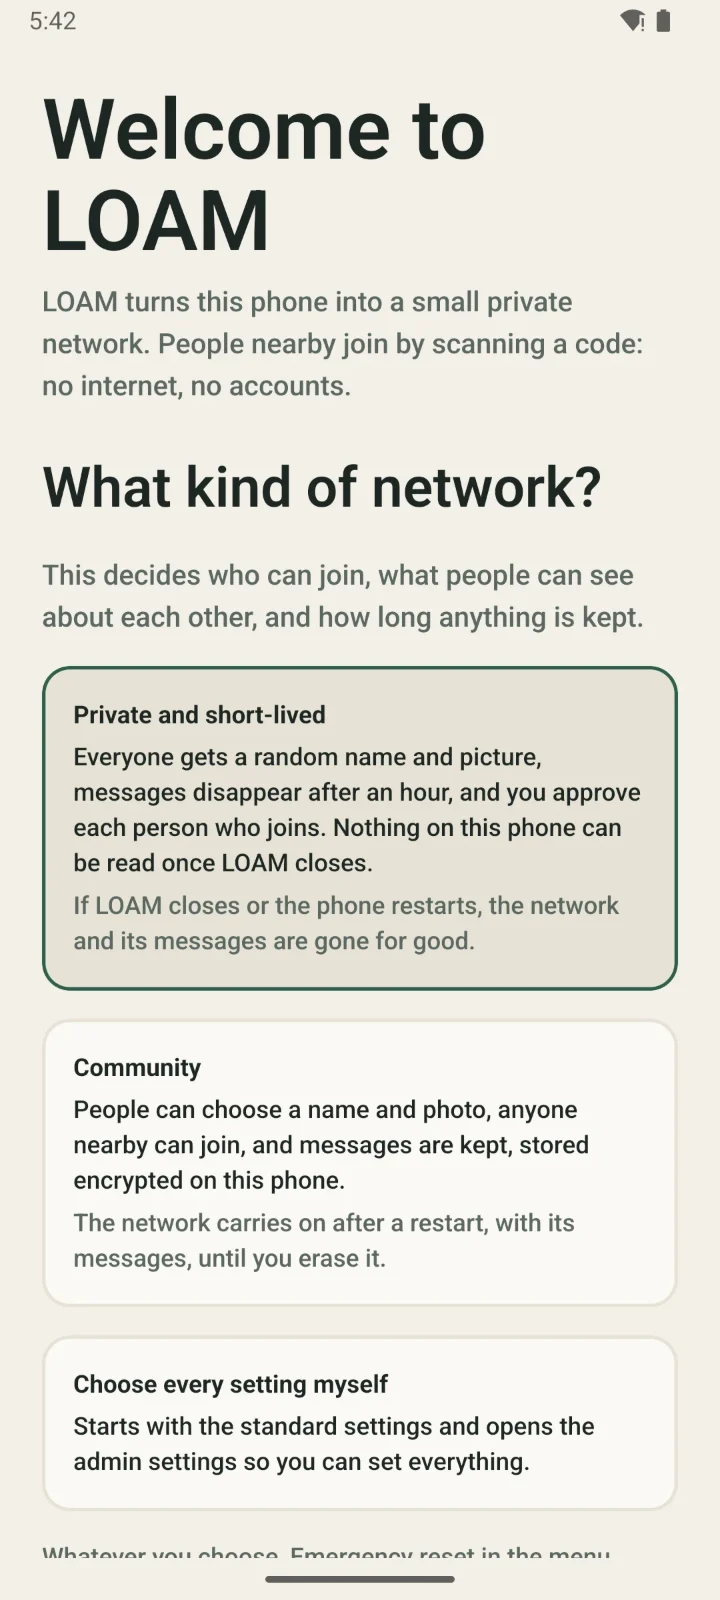
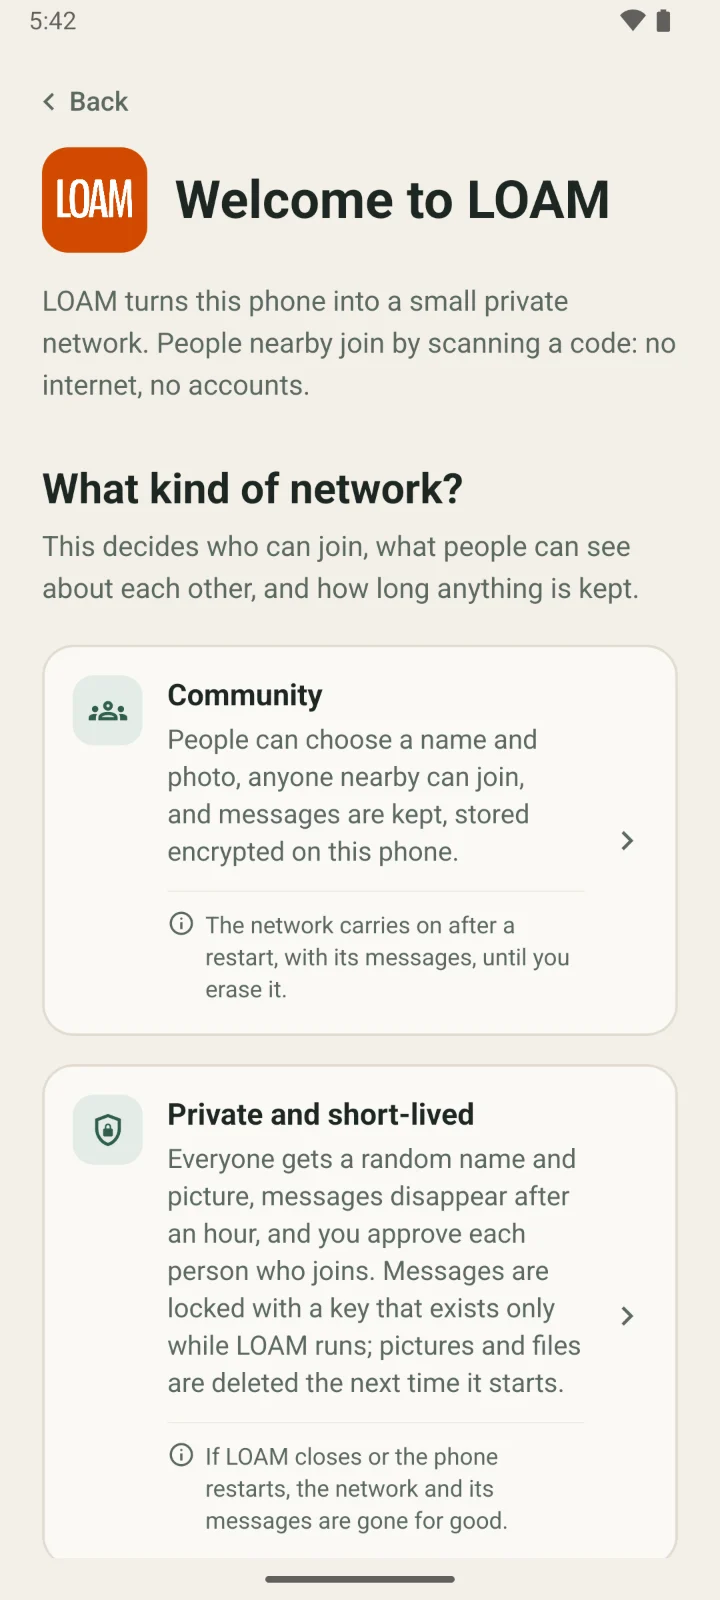
Website: retaken screenshots, and why there's no iPhone app
- Android shots retaken from the current app: the redesigned setup screens
  (language, kind of network, connection) and the Emergency reset screen,
  light and dark. Web client shots regenerated from the current client.
- New "What about iPhone?" section (and nav link, and a "Why not iPhone?"
  link under the Android download): iPhones join from Safari with nothing
  to install, but there won't be an iPhone app. iOS can't run a network
  (no hotspot, apps paused in the background), Apple approves every app
  and removes apps at governments' request, and LOAM has to be installable
  without anyone's permission.
- The Emergency reset line no longer says it's in the menu (it's in the
  menu only on private networks now).

Claude-Session: https://claude.ai/code/session_017Bh6kfLEYorhYvTDgJA79n

diff --git a/apps/site/index.html b/apps/site/index.html
@@ -50,6 +50,7 @@
           <li><a href="#how">How it works</a></li>
           <li><a href="#start">Get started</a></li>
           <li><a href="#features">Features</a></li>
+          <li><a href="#iphone">iPhone</a></li>
           <li><a href="#privacy">Privacy</a></li>
           <li>
             <a class="nav-github" href="https://github.com/JosephMaynard/loam" rel="noreferrer">
@@ -226,7 +227,7 @@
                 <a class="btn btn-primary" href="https://github.com/JosephMaynard/loam/releases/latest/download/loam-host.apk">Download for Android</a>
                 <a class="text-link" href="https://github.com/JosephMaynard/loam/releases/latest" rel="noreferrer">All releases</a>
               </div>
-              <p class="fineprint">Android 7 or newer. Hosting a hotspot needs Android 8 or newer.</p>
+              <p class="fineprint">Android 7 or newer. Hosting a hotspot needs Android 8 or newer. <a href="#iphone">Why not iPhone?</a></p>
             </article>
 
             <article class="start-card reveal" aria-labelledby="start-cli">
@@ -399,6 +400,45 @@
         </div>
       </section>
 
+      <!-- iPhone -->
+      <section id="iphone" class="section section-tint" aria-labelledby="iphone-title">
+        <div class="wrap iphone-grid">
+          <header class="iphone-head reveal">
+            <p class="eyebrow">What about iPhone?</p>
+            <h2 id="iphone-title">iPhones can join. They can't host.</h2>
+            <p class="section-lede">
+              Anyone with an iPhone can join a LOAM network: scan the code and it opens in Safari, with nothing
+              to install. But there won't be a LOAM app for iPhone, and that's on purpose.
+            </p>
+          </header>
+          <ol class="reasons">
+            <li class="reason reveal">
+              <h3>iOS won't let an app run a network</h3>
+              <p>
+                An iPhone app can't start a Wi-Fi hotspot, and iOS pauses apps soon after you switch away from
+                them. A network hosted on an iPhone would stop the moment its screen locked.
+              </p>
+            </li>
+            <li class="reason reveal">
+              <h3>Apple decides what an iPhone can install</h3>
+              <p>
+                Every iPhone app needs Apple's approval, even from the alternative app stores now allowed in the
+                EU. Apple removes apps when governments ask it to, and has done so with messaging apps before.
+                An app it removed would simply stop being installable.
+              </p>
+            </li>
+            <li class="reason reveal">
+              <h3>LOAM has to be there when it's needed</h3>
+              <p>
+                A tool for emergencies and disrupted networks can't depend on one company's permission. On
+                Android, LOAM is a file: download it, pass it from phone to phone, and install it with no store
+                in between.
+              </p>
+            </li>
+          </ol>
+        </div>
+      </section>
+
       <!-- Privacy & safety -->
       <section id="privacy" class="section section-deep" aria-labelledby="privacy-title">
         <div class="wrap privacy-grid">
@@ -429,7 +469,7 @@
             </li>
             <li>
               <strong>Emergency reset</strong>
-              <span>Press and hold in the menu to erase the whole network at once, on the host and on every phone connected to it.</span>
+              <span>Press and hold to erase the whole network at once, on the host and on every phone connected to it. LOAM then closes, ready to start again.</span>
             </li>
             <li>
               <strong>No tracking in the app</strong>

diff --git a/apps/site/src/styles.css b/apps/site/src/styles.css
@@ -1191,6 +1191,86 @@ code {
   font-size: 15.5px;
 }
 
+/* ---- iPhone ---------------------------------------------------------------- */
+
+.iphone-grid {
+  display: grid;
+  grid-template-columns: minmax(0, 1fr);
+  gap: clamp(32px, 5vw, 64px);
+  align-items: start;
+}
+
+@media (min-width: 960px) {
+  .iphone-grid {
+    grid-template-columns: minmax(0, 5fr) minmax(0, 6fr);
+  }
+
+  .iphone-head {
+    position: sticky;
+    top: 112px;
+  }
+}
+
+.iphone-head .section-lede {
+  margin-top: 18px;
+}
+
+.reasons {
+  display: grid;
+  gap: 16px;
+  margin: 0;
+  padding: 0;
+  list-style: none;
+  counter-reset: reason;
+}
+
+.reason {
+  position: relative;
+  padding: 26px 26px 26px 84px;
+  border-radius: var(--radius);
+  background: var(--surface);
+  border: 1px solid var(--line);
+  counter-increment: reason;
+}
+
+.reason::before {
+  content: counter(reason);
+  position: absolute;
+  top: 24px;
+  left: 26px;
+  display: grid;
+  place-items: center;
+  width: 38px;
+  height: 38px;
+  border-radius: 12px;
+  background: var(--moss-soft);
+  color: var(--moss);
+  font-family: var(--font-display);
+  font-size: 19px;
+  font-weight: 700;
+}
+
+.reason h3 {
+  font-size: 21px;
+  margin-bottom: 8px;
+}
+
+.reason p {
+  color: var(--ink-2);
+  font-size: 15.5px;
+}
+
+@media (max-width: 520px) {
+  .reason {
+    padding: 22px;
+  }
+
+  .reason::before {
+    position: static;
+    margin-bottom: 14px;
+  }
+}
+
 /* ---- Privacy --------------------------------------------------------------- */
 
 .privacy-grid {

diff --git a/apps/site/scripts/android-shots.md b/apps/site/scripts/android-shots.md
@@ -50,8 +50,15 @@ $ADB shell input swipe 540 2233 540 2233 2600                   # hold to leave 
 $ADB shell input swipe 540 1900 540 500 300 && a tap "Show a link code"
 # Set the demo clock to the device's real time first, so the code's expiry matches it.
 a shot android-link
-a tap Close && a tap Done && a tap "Open host menu" && a tap "Emergency reset" && a shot android-reset
+a tap Close && a tap Done && a tap "Open host menu" && a tap Encryption
+# On a Community network Emergency reset is at the bottom of Encryption settings (the menu has it only on
+# private networks): scroll down and tap its button, then:
+a shot android-reset
 ```
+
+For the `-dark` versions run the same steps after `$ADB shell cmd uimode night yes` (clear the app's data
+first, and switch modes before launching: a running app doesn't always repaint). If the Wi-Fi icon drops
+out of the status bar, re-send `network -e wifi show -e level 4 -e fully true`.
 
 ## Share image
 
